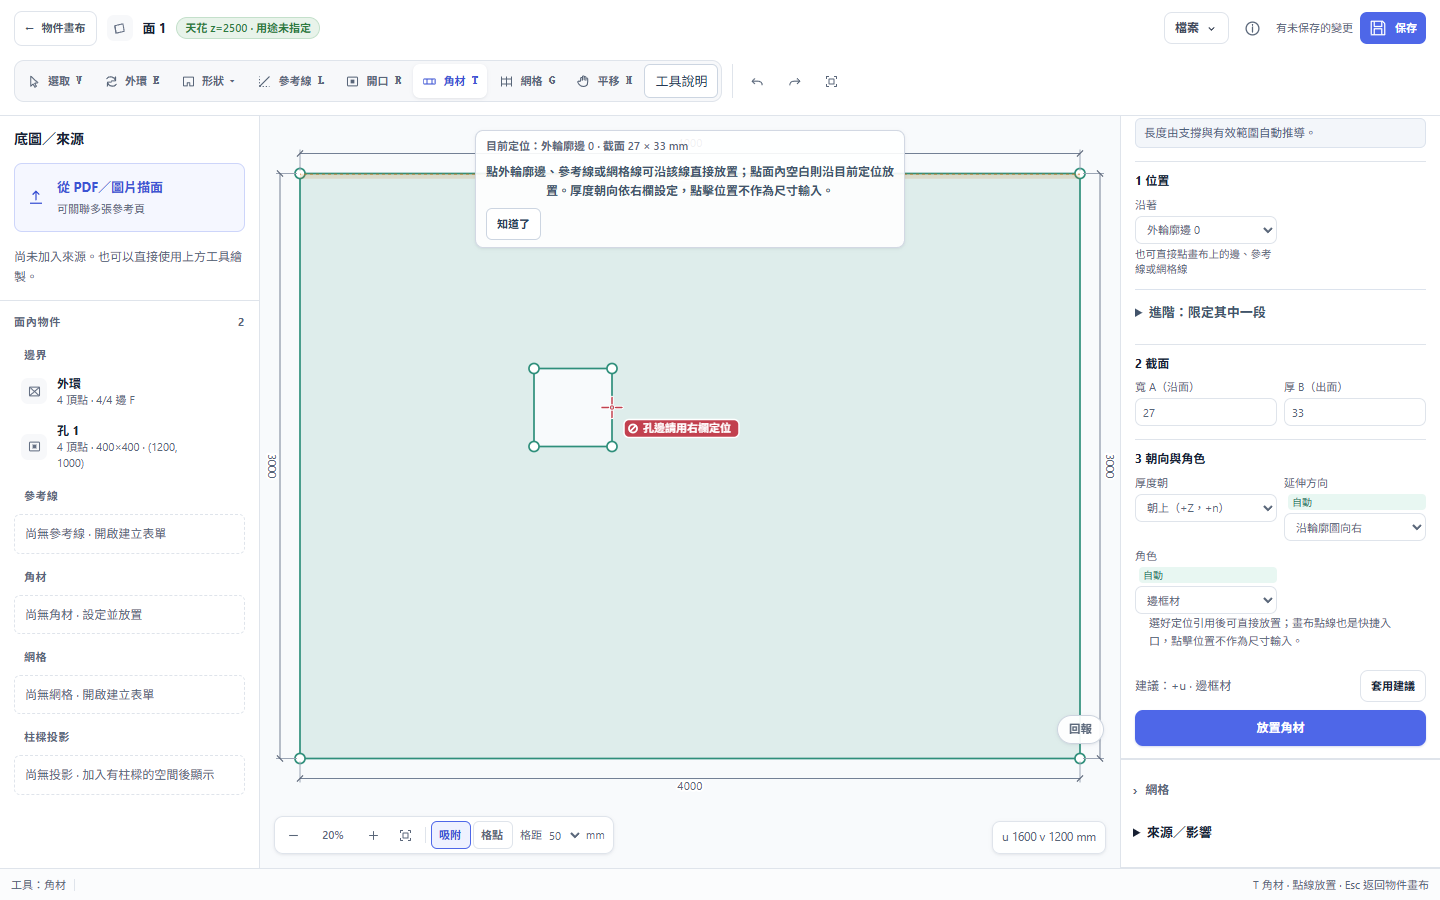
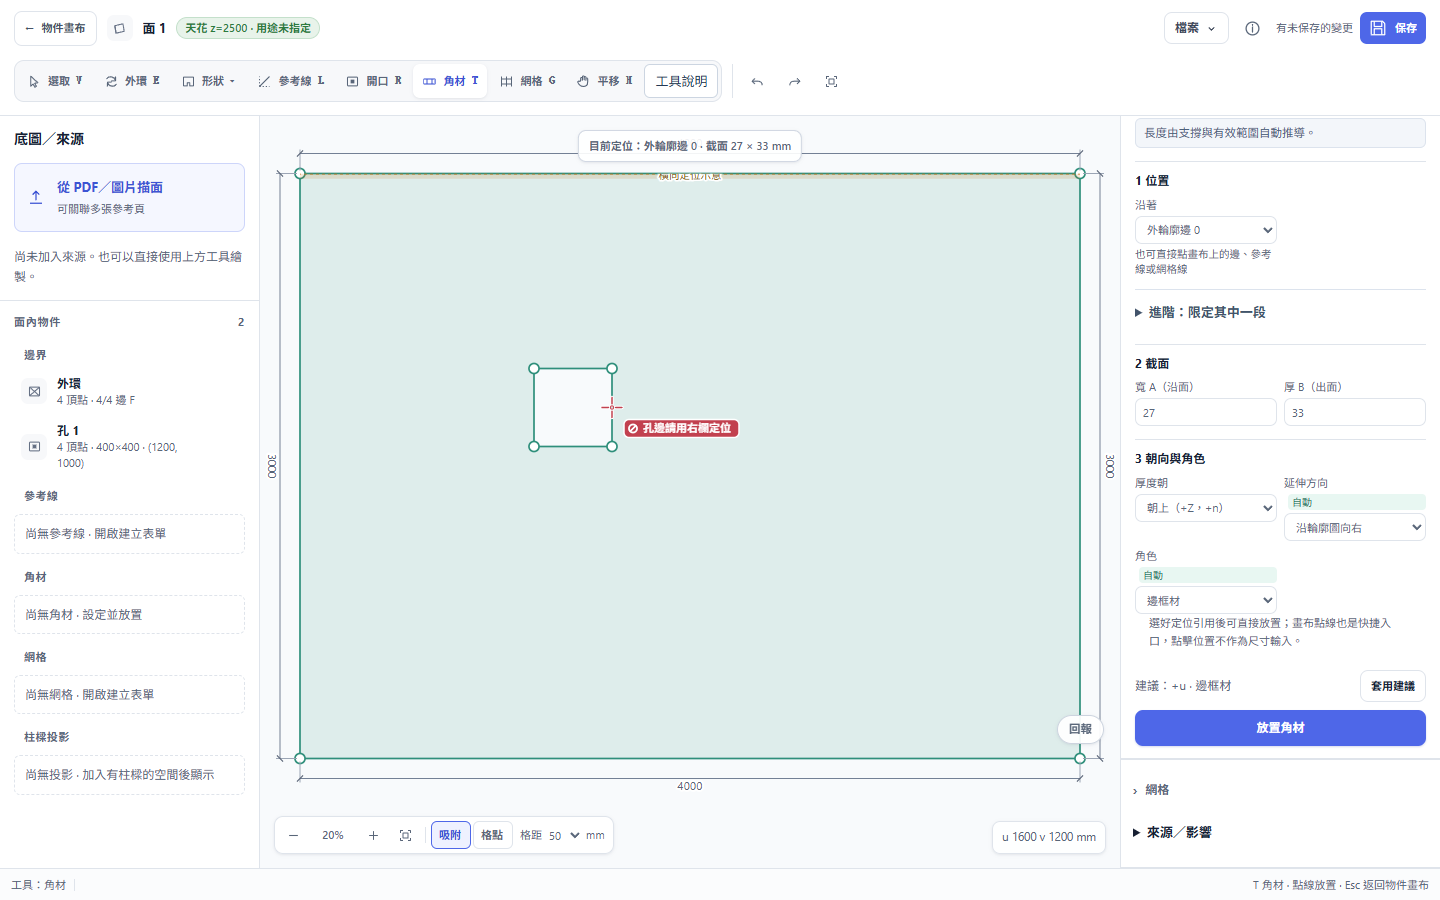
fix: preserve real cursor context and verify B glyph contract

Changed region(s): [[0.3125, 0.1556, 0.625, 0.28]]

diff --git a/geometry-web/cdp_test.js b/geometry-web/cdp_test.js
@@ -6572,13 +6572,13 @@ async function main() {
     await require('./project_import_final_objects_test.js')({read:eval_,send,until,check,doUndoRedo:op=>eval_('doUndoRedo('+JSON.stringify(op)+')')});
   }
 
-  { /* ===== P62. 自訂 SVG 游標 — 設計方向 1b「箭頭+文字膠囊」 =====
-       驗收:(a) 圖形層與設計稿常數一致(箭頭路徑、膠囊 h=19/rx=9.5/白描邊/色值、
-       文字 10.5px 650 白字含修飾鍵前綴);(b) 狀態解析跟真實行為一致——
+  { /* ===== P62. 自訂 SVG 游標 — #116 B 面內 v2 =====
+       驗收:(a) 圖形層與附件 v2 一致(箭頭路徑、狀態塊 h=18/rx=5/白描邊/色值、
+       文字 11px 650 白字、獨立修飾鍵);(b) 狀態解析跟真實行為一致——
        select 命中族(edge/vertex/alt-vertex/move-line/timber-pick/hole-pick)、
        工具族(guide/hole/timber 族)、拖曳尺寸膠囊、space-pan、busy;
        (c) overlay pointer-events:none 不干擾命中、進畫布隱原生游標、離開即隱藏。 */
-    console.log('=== P62. 自訂 SVG 游標(方向 1b) ===');
+    console.log('=== P62. 自訂 SVG 游標(#116 B 面內 v2) ===');
     const ck62 = (n, v, d) => {
       console.log(n,explicitVerdict(v === true ? '✓' : '✗'), v === true ? '' : JSON.stringify(d));
       // Attribute checks miss a global CSS rule overriding SVG presentation attributes.
@@ -6626,6 +6626,7 @@ async function main() {
           h:+cap.height.baseVal.value,rx:+cap.rx.baseVal.value,fill:cap.getAttribute('fill'),
           stroke:cap.getAttribute('stroke'),sw:cap.getAttribute('stroke-width')}:null,
         label:txt?txt.textContent:null, labelFill:txt?txt.getAttribute('fill'):null,
+        text:h.cur.textContent,modifierStyle:style([...h.cur.querySelectorAll('text')].find(e=>e.textContent==='Space')),
         labelStyle:style(txt),tipStyle:style(h.cur.querySelector('.cx-tip text')),
         labelFs:txt?txt.getAttribute('font-size'):null, labelFw:txt?txt.getAttribute('font-weight'):null,
         tip:(h.cur.querySelector('.cx-tip text')||{}).textContent||null,
@@ -6645,20 +6646,20 @@ async function main() {
 
     await mv62(2, 2);                                          /* 頂點 v0 把手圈(無角材世界,圈可直接點) */
     s62 = await cx62();
-    ck62('P62-2 指到凸角:「拉角」膠囊 face 綠 + 膠囊幾何 h19/rx9.5/白描邊1.3/字10.5-650',
+    ck62('P62-2 指到凸角:「拉角」face 綠 + v2 h18/rx5/白描邊1.5/字11-650',
       s62 && s62.label === '拉角' &&
-      s62.capsule && s62.capsule.fill === '#2f8f7b' && s62.capsule.h === 19 && s62.capsule.rx === 9.5 &&
-      s62.capsule.stroke === '#fff' && +s62.capsule.sw === 1.3 &&
-      s62.labelFs === '10.5' && s62.labelFw === '650' && s62.labelFill === '#fff', s62);
+      s62.capsule && s62.capsule.fill === '#2f8f7b' && s62.capsule.h === 18 && s62.capsule.rx === 5 &&
+      s62.capsule.stroke === '#fff' && +s62.capsule.sw === 1.5 &&
+      s62.labelFs === '11' && s62.labelFw === '650' && s62.labelFill === '#fff', s62);
 
     await mv62(2, 2, 1);                                       /* Alt=1 按住 */
     s62 = await cx62();
-    ck62('P62-3 Alt+凸角:「Alt · 捏缺口」danger 紅',
-      s62 && s62.label === 'Alt · 捏缺口' && s62.capsule && s62.capsule.fill === '#c2414f', s62);
+    ck62('P62-3 Alt+凸角:「捏缺口」face 綠與獨立 Alt 鍵',
+      s62 && s62.label === '捏缺口' && s62.text.includes('Alt') && s62.capsule && s62.capsule.fill === '#2f8f7b', s62);
 
     await mv62(3997, 1500);                                    /* 外輪廓邊 e1 */
     s62 = await cx62();
-    ck62('P62-4 指到外環邊:「選邊／推拉」', s62 && s62.label === '選邊／推拉', s62);
+    ck62('P62-4 指到外環邊:「推拉」', s62 && s62.label === '推拉', s62);
 
     await mv62(1000, 1500);                                    /* 孔左緣 e:1:x */
     s62 = await cx62();
@@ -6690,8 +6691,8 @@ async function main() {
       s62 && s62.label === '沿此線放置' && s62.capsule && s62.capsule.fill === '#2f8f7b', s62);
     await mv62(1000, 1500);                                    /* 孔的左緣 */
     s62 = await cx62();
-    ck62('P62-9 角材工具指到孔邊:「孔邊不可點」danger 紅',
-      s62 && s62.label === '孔邊不可點' && s62.capsule && s62.capsule.fill === '#c2414f', s62);
+    ck62('P62-9 角材工具指到孔邊:「孔邊請用右欄定位」danger 紅',
+      s62 && s62.label === '孔邊請用右欄定位' && s62.capsule && s62.capsule.fill === '#c2414f', s62);
     await mv62(3000, 2200);                                    /* 面內空白(避開 guide 2;面外亦同:走表單) */
     s62 = await cx62();
     ck62('P62-10 角材工具空白:「角材」accent 膠囊(依右欄設定放置)',
@@ -6706,12 +6707,14 @@ async function main() {
 
     await eval_(`feSetTool('pan')`); await sleep(80); await mv62(2000, 1500);
     s62 = await cx62();
-    ck62('P62-12 平移工具:「平移」hand 基底', s62 && s62.label === '平移', s62);
+    ck62('P62-12 平移工具:hand 基底', s62 && s62.arrowD === 'M7.5 11V6.8a1.4 1.4 0 0 1 2.8 0v3.4-5.6a1.4 1.4 0 0 1 2.8 0v5-4a1.4 1.4 0 0 1 2.8 0v4.6-2.4a1.4 1.4 0 0 1 2.8 0v5.1c0 4.3-2.5 7-6.6 7h-.8c-2.7 0-4.6-1.1-6.1-3L3 13.6a1.5 1.5 0 0 1 2.4-1.8Z', s62);
+    ck62('P62-12b 手形已表意，不疊多餘狀態塊',s62 && s62.capsule === null && s62.label === null,s62);
 
     await eval_(`fe.spaceDown=true; feSetTool('select'); cxRefreshAll();`);
     s62 = await cx62();
-    ck62('P62-13 按住空白:「Space · 平移」',
-      s62 && s62.label === 'Space · 平移', s62);
+    ck62('P62-13 按住空白:hand 基底與獨立 Space 鍵',
+      s62 && s62.arrowD === 'M7.5 11V6.8a1.4 1.4 0 0 1 2.8 0v3.4-5.6a1.4 1.4 0 0 1 2.8 0v5-4a1.4 1.4 0 0 1 2.8 0v4.6-2.4a1.4 1.4 0 0 1 2.8 0v5.1c0 4.3-2.5 7-6.6 7h-.8c-2.7 0-4.6-1.1-6.1-3L3 13.6a1.5 1.5 0 0 1 2.4-1.8Z' && s62.text === 'Space', s62);
+    ck62('P62-13b Space 鍵實際字樣無描邊且保留深字',s62?.modifierStyle?.stroke === 'none' && s62.modifierStyle.width === 0 && s62.modifierStyle.fill === 'rgb(89, 99, 118)',s62);
     await eval_(`fe.spaceDown=false;`);
 
     await eval_(`oc.busy=true; document.body.classList.add('oc-busy'); cxRefreshAll();`);
@@ -6732,8 +6735,8 @@ async function main() {
     await sleep(350);
     await mv62(2000, 14);                                      /* 角材 1@e0 帶中央 */
     s62 = await cx62();
-    ck62('P62-16 指到角材:「角材」ink 膠囊',
-      s62 && s62.label === '角材' && s62.capsule && s62.capsule.fill === '#172033', s62);
+    ck62('P62-16 指到角材:真實「角材 1」ink 狀態塊',
+      s62 && s62.label === '角材 1' && s62.capsule && s62.capsule.fill === '#172033', s62);
 
     /* 物件畫布層 */
     await eval_(`(async()=>{ resetSceneFocus(); await renderObjects(); })()`); await sleep(300);

diff --git a/tests/test_issue116_browser.js b/tests/test_issue116_browser.js
@@ -91,7 +91,10 @@ async function main(){
       },mode);
       await page.locator('#feOpApply').click();
       if(mode==='session')await page.evaluate(()=>{connection.session=window.__issue116Session;});
-      check(await dump(page),native,mode+' stale form refuses all native writes');
+      // #114 correctly makes the client read-only on a stale session. Read the
+      // native World independently; never clear that guard to make a test pass.
+      const afterStale=mode==='session'?await fetch(new URL('/api',url),{method:'POST',headers:{'Content-Type':'application/json'},body:JSON.stringify({cmd:'dump'})}).then(async r=>{const j=await r.json();assert.equal(j.ok,true);return j.text;}):await dump(page);
+      check(afterStale,native,mode+' stale form refuses all native writes');
       check(await page.evaluate(()=>fe.op),null,mode+' stale form retires preview');
       if(mode==='session')await page.reload();await page.waitForFunction(()=>connection.phase==='ready');
     }
@@ -118,7 +121,7 @@ async function main(){
     const holeNative=await dump(page);
     const reject=await page.evaluate(async()=>{await api('line timber 10 100 33 role boundary');return api('line place 10 on 1 at-face h0e0 +v +n');});
     check(reject.ok,false,'native core rejects boundary role on an inner hole edge');
-    check(reject.error.includes('V_BOUNDARY_ROLE'),true,'hole edge is rejected for the actual I21 role requirement');
+    check(reject.error.includes('V_BOUNDARY_ROLE'),true,'hole edge is rejected for the actual I20 role requirement');
     await fixture(page);const f=await at(page,4100,1000);await page.mouse.click(f.x,f.y,{button:'right'});
     check(await page.locator('#feCtxMenu').isVisible(),true,'outside-face menu provides real view controls');
     await page.locator('#feCtxMenu [data-fe-act="create"]').click();check(await page.locator('.fcm-submenu [data-fe-act="op:hole"]').getAttribute('aria-disabled'),'true','outside-face opening entry remains unavailable');
@@ -136,6 +139,10 @@ async function main(){
     await page.keyboard.up('Shift');check(await page.evaluate(()=>[...fe.timberSelection].sort()),[10,11],'existing Shift selection produces real timber multi-selection');
     await right(page,1000,50);check(await page.locator('.fcm-heading strong').textContent(),'已選 2 支角材','right-click preserves existing multi-selection');
     check(await page.locator('#feCtxMenu [data-fe-act="delete"]').getAttribute('aria-disabled'),'true','multi-delete follows existing single-selection requirement');await page.keyboard.press('Escape');
+    let timberPoint=await at(page,1000,50);await page.mouse.move(timberPoint.x,timberPoint.y);
+    check(await page.locator('.cx-layer[data-cx-host="fe"] .cx-label').textContent(),'角材 10','hover badge reads actual first timber ID');
+    await page.waitForTimeout(1300);timberPoint=await at(page,1000,2950);await page.mouse.move(timberPoint.x,timberPoint.y);
+    check(await page.locator('.cx-layer[data-cx-host="fe"] .cx-label').textContent(),'角材 11','changing hovered timber re-expands the badge with its actual ID');
     await fixture(page);
     await right(page,2000,1500);check(await page.locator('.fcm-heading strong').textContent(),'面內一點','inside-point target preserves right-click location');
     const point=await page.evaluate(()=>({...fe.sel}));
@@ -145,12 +152,17 @@ async function main(){
     check(await page.locator('.fcm-heading strong').textContent(),'參考線 1','guide context uses actual guide id');
     await page.locator('#feCtxMenu .fcm-tile[data-fe-act="guide-edit"]').click();check(await page.evaluate(()=>fe.fiTab),'guide','guide editing routes to existing reference-source form');
     check(await page.locator('#refGuideExpr').inputValue(),'spec:guideAt','guide source expression preserved');
+    await page.locator('#guide-editor-close').click();
+    await page.locator('[data-face-tool="timber"]').click();const guidePoint=await at(page,2000,1700);await page.mouse.move(guidePoint.x,guidePoint.y);
+    check(await page.locator('.cx-layer[data-cx-host="fe"] .cx-label').textContent(),'沿此線放置','reference-line hover describes the real placement source');
     // Actual pointer cursor: expands on state change, shrinks after 1.2s, denial stays.
     await fixture(page);let p=await at(page,4000,1400);await page.mouse.move(p.x,p.y);
     check(await page.locator('.cx-layer[data-cx-host="fe"] .cx-label').textContent(),'推拉','real edge hover shows intent badge');
     await page.waitForTimeout(1300);check(await page.locator('.cx-layer[data-cx-host="fe"] .cx-label').count(),0,'stationary cursor collapses after 1.2 seconds');
     await page.keyboard.down('Space');check(await page.locator('.cx-layer[data-cx-host="fe"]').textContent(),'Space','temporary pan modifier is visible');await page.keyboard.up('Space');
-    await fixture(page,['line boundary 1 outline 0,0 4000,0 4000,3000 0,3000 hole 1200,1000 1200,1400 1600,1400 1600,1000']);await page.locator('[data-face-tool="timber"]').click();p=await at(page,1600,1200);await page.mouse.move(p.x,p.y);await page.waitForTimeout(1300);
+    await fixture(page,['line boundary 1 outline 0,0 4000,0 4000,3000 0,3000 hole 1200,1000 1200,1400 1600,1400 1600,1000']);p=await at(page,1600,1200);await page.mouse.move(p.x,p.y);
+    check(await page.locator('.cx-layer[data-cx-host="fe"] .cx-label').textContent(),'孔','selection hover retains the actual hole context');
+    await page.locator('[data-face-tool="timber"]').click();await page.mouse.move(p.x,p.y);await page.waitForTimeout(1300);
     check(await page.locator('.cx-layer[data-cx-host="fe"] .cx-label').textContent(),'孔邊請用右欄定位','denial reason remains after normal collapse delay');await shot(page,'cursor-denied');
     // Small-screen and compact landscape layout use the same commands/panel.
     for(const viewport of [{width:390,height:844},{width:720,height:480}]){

diff --git a/geometry-web/app.js b/geometry-web/app.js
@@ -3952,13 +3952,15 @@ function cxRender(h, x, y, alt, shift) {
   if (h === cxUI.fe && window.CursorV2) {
     const keys = {edge:"edge-push", "resize-ew":"edge-push", "resize-ns":"edge-push",
       "alt-vertex":"alt-pinch", "move-line":"move-guide", "timber-pick":"hover-pick", "hole-pick":"select"};
-    const signature = res.key + ':' + alt + ':' + shift;
+    const signature = res.key + ':' + alt + ':' + shift + ':' + (res.label || '');
     if (h.v2State !== signature) {
       clearTimeout(h.v2Timer); h.v2State = signature; h.v2Since = performance.now();
       h.v2Timer = setTimeout(() => { if (h.last) cxRender(h,h.last.x,h.last.y,cxAlt,cxShift); }, 1200);
     }
     const opts = {expanded:performance.now()-h.v2Since<1200, readout:res.tip,
       mod:fe.spaceDown ? "Space" : alt ? "Alt" : shift ? "Shift" : null};
+    if (res.label) opts.label = res.label;
+    if (res.key === "hole-pick") opts.icon = "hole";
     if (res.key === "edge" || res.key === "resize-ns") opts.angle = 90;
     else if (res.key === "resize-ew") opts.angle = 0;
     if (res.key === "move-line") {
@@ -3970,10 +3972,6 @@ function cxRender(h, x, y, alt, shift) {
       const hit = document.elementFromPoint(x,y)?.closest?.('[data-face-hit]')?.dataset.faceHit.split(':');
       const a = hit && feCurLoops()[+hit[1]]?.verts[+hit[2]], b = hit && feCurLoops()[+hit[1]]?.verts[(+hit[2]+1)%feCurLoops()[+hit[1]].verts.length];
       if (a && b) opts.angle = a[1] === b[1] ? 90 : 0;
-    }
-    if (res.key === "timber-pick") {
-      const hit = document.elementFromPoint(x,y)?.closest?.('[data-face-hit]')?.dataset.faceHit.split(':');
-      opts.label = `角材 ${hit?.[1] || ''}`;
     }
     glyph = CursorV2.glyph(keys[res.key] || res.key,opts);
   }
@@ -4116,9 +4114,9 @@ function cxResolveFace(x, y, alt, shift) {
         }
         return { key: "vertex", marks };
       }
-      if (hit[0] === "e") return { key: +hit[1] === 0 ? "edge" : "hole-pick", marks };
+      if (hit[0] === "e") return { key: +hit[1] === 0 ? "edge" : "hole-pick", label: +hit[1] === 0 ? null : "孔", marks };
       if (hit[0] === "g") return { key: "move-line", marks };
-      if (hit[0] === "t") return { key: "timber-pick", marks };
+      if (hit[0] === "t") return { key: "timber-pick", label: `角材 ${hit[1]}`, marks };
     }
     return { key: "select", marks };
   }
@@ -4126,7 +4124,7 @@ function cxResolveFace(x, y, alt, shift) {
   if (fe.tool === "hole") return { key: "hole", marks };
   if (fe.tool === "timber") {
     if (hit && hit[0] === "e" && +hit[1] !== 0) return { key: "deny", marks };
-    if (hit && (hit[0] === "e" || hit[0] === "g")) return { key: "timber-ok", marks };
+    if (hit && (hit[0] === "e" || hit[0] === "g")) return { key: "timber-ok", label: hit[0] === "g" ? "沿此線放置" : "沿此邊放置", marks };
     /* 頂點/角材/面內外空白一律走右欄表單放置(實際行為,不報 deny-out) */
     return { key: "timber", marks };
   }

diff --git a/geometry-web/docs/ISSUE116-B-HANDOFF.md b/geometry-web/docs/ISSUE116-B-HANDOFF.md
@@ -30,16 +30,16 @@
 
 ## 已驗與外部 gate
 
-- `tests/test_issue116_browser.js`：75/75，Chrome 真右鍵、真欄位、真 preview drag、取消 dump 逐字不变、確認精確 8 頂點、單步 undo/redo、正式 Save 的下載分支、完整 `.gcanvas` 重開 dump 一致。過期 selection/frame/session/edit 與未知命令拒寫；子選單、方向鍵／Home／End／Enter／Esc、disabled reason、多選、cursor 時序、390/720px 及 compact cancel 均通過；未預期 console/page errors 為 0。
-- ProjectStore、ReferenceWorkspace races、model update UI、context operations：70/70，包含真 HTTP/native committed ABA；無略過。
-- 完整 `cdp_test.js` 最終結果待本輪執行完成後更新。前兩次因畫面遮擋修正主動中止，不能計為通過。
+- `tests/test_issue116_browser.js`：79/79，Chrome 真右鍵、真欄位、真 preview drag、取消 dump 逐字不變、確認精確 8 頂點、單步 undo/redo、正式 Save 的下載分支、完整 `.gcanvas` 重開 dump 一致。過期 selection/frame/session/edit 與未知命令拒寫；子選單、方向鍵／Home／End／Enter／Esc、disabled reason、多選、cursor 時序、390/720px 及 compact cancel 均通過；未預期 console/page errors 為 0。參考線／孔 hover 及切換角材 ID 後重新展開均由真指標驗證。
+- 接上 #114 後 ProjectStore、ReferenceWorkspace races、model update UI、context operations：73/73，包含真 HTTP/native committed ABA；無略過。另以既有 WSL Node/GCC 跑 #77 history/workspace/room-collection：56/56；Windows 缺 GCC 的初次失敗未計為通過。
+- 完整 `cdp_test.js` 最終結果待本輪執行完成後更新。上一輪1336通過／10失敗、未完成：9項P62舊規格已改驗附件v2，保留38項原固定門檻；參考線標籤與孔辨識一併修正。P72配置卡拖移失敗；main單項52/52通過，正比對雙方全量，不先宣稱無關。更早因畫面修正／rebase中止的回歸亦不計為通過。
 - 所有測試用獨立 8816 及 TEMP feedback，使用者 8765 未重置、未清瀏覽器儲存。預覽用另一個 8817，`/runtime` 要求本 worktree、`fresh:true`。
 
 最終記錄在 `%TEMP%/geometry-tests/issue116-browser.log`、`issue116-unit.log`、`issue116-cdp-full.log`。專項 result 為 `issue116-evidence/result.json`。保存分支是真下載 ZIP，不模擬 writable handle；OS picker、本機 IME／實體 iOS、跨瀏覽器及 PR #114 多房間 owner 驗收未完成，不冒充通過。
 
 ## PR #114 重疊與整合順序
 
-查核 PR #114 head `fe5c41eb6342cef45bc8693919ee33e01ca80d5f`，branch `feat/source-rooms-owner-77-20261004`。本分支基於 main `06086ab`；兩者共同祖先 `07d5dde`。重疊檔為 `app.js`、`index.html`、`BACKLOG.md`、`tests/run_all.py`。
+開工時查核 PR #114 head `fe5c41eb6342cef45bc8693919ee33e01ca80d5f`，branch `feat/source-rooms-owner-77-20261004`。初版基於 main `06086ab`，共同祖先 `07d5dde`。工作期間 #114 合入 main `861b65e`，本分支已 rebase 到 `861b65e` 並保留全部 #114 變更。重疊檔為 `app.js`、`index.html`、`BACKLOG.md`、`tests/run_all.py`。
 
 | 檔案 | #116 範圍 | #114 保留要點 |
 |---|---|---|
@@ -65,4 +65,6 @@
 
 source-plane 的原插入區不衝突，也必須保留；不以只選 ours/theirs 解掉此衝突。演練紀錄 `%TEMP%/geometry-tests/issue116-pr114-merge-tree.txt`。
 
-建議 dot 先決定 #114 的 owner 整合基準，再合此小接線；解 index script 插入衝突時保留雙方新增 script。整合後重跑這份專項、完整 CDP 與 #114 正式多房間正常／中斷／保存重開／歷史／model update acceptance。草稿不自動關閉 #116；獨立只讀規則審查交 dot，尚未宣稱完成。
+上述唯一 index 衝突已在本分支 rebase 時依雙方 script 順序解決；不是讓 dot 再解已知衝突。新 main 下79項專項、73項共用 owner 單元與56項多房間原生測試已重跑。過期 session 測試保留 #114 的唯讀保護，另讀 native dump 證明零寫入，不清除保護讓測試過。
+
+交 dot 核對最新 main 下的小接線、獨立只讀規則審查，並跑 #114 正式多房間正常／中斷／保存重開／歷史／model update browser acceptance。草稿不自動關閉 #116；iOS／IME／OS picker 與其他工作區未宣稱完成。

diff --git a/geometry-web/docs/DOM-CONTRACT.md b/geometry-web/docs/DOM-CONTRACT.md
@@ -299,7 +299,7 @@ P73 `uiux_review_test.js` 透過 `cdp_test.js` 驗證本節，也可用 `GEOMETR
 | `#rcErr` | RC 對話框表單內錯誤提示(BF4:驗證失敗顯示) | `hidden`、textContent |
 | `#feActionBar` / `[data-fe-act]` | 面內選邊/角/點/角材後的浮動操作列(GEO-188;`op:notch`/`op:extend`/`op:push`/`op:corner`/`op:hole`/`fixity`;GEO-191 角材選取只有 `delete`) | `hidden`、`.click()`、`.on` |
 | `#feOpPanel` / `[data-fe-param]` / `[data-fe-keep]` / `[data-fe-anchor]` / `[data-fe-dir]` / `[data-fe-ax]` / `[data-fe-ay]` / `#feOpApply` / `#feOpCancel` | 就地參數面板(GEO-188/170;`input` 事件即時預覽,`[data-fe-keep]` 是「留下」欄與切掉連動,Enter/`#feOpApply` 套用) | `hidden`、`value`、`.click()` |
-| `#feCtxMenu` | 面內右鍵選單(GEO-192;內容 = `feActionsFor(fe.sel)`,與 `#feActionBar` 同一份資料來源) | `hidden`、`[data-fe-act]` 清單與 `#feActionBar` 逐一相同、`.click()` |
+| `#feCtxMenu` | #116 B 面內右鍵選單；幾何動作重用 `feActionsFor`，另有真實建立／檢視入口、搜尋與停用原因 | `hidden`、`[data-fe-act]` 包含浮動列真動作、`aria-disabled`、`.fcm-search input`、`.click()` |
 
 ### 已移除(Phase 6)
 
@@ -653,13 +653,19 @@ P73 `uiux_review_test.js` 透過 `cdp_test.js` 驗證本節，也可用 `GEOMETR
   `anchor:"start"`/`dist` 讓另一側不動)、垂直於母邊且不與母邊重合的邊界動 `d`(或 push
   的 `dist`);point/corner 目標比照對應欄位。`feSyncOverlays()` 的 `show` 判斷放行
   `fe.drag.kind==="opHandle"`,拖曳中面板才不會被既有的「有 `fe.drag` 就隱藏」邏輯關掉。
-- **C. 右鍵選單**:`#feCtxMenu`(`role="menu"`,動態填 `[data-fe-act]` 按鈕)。內容來自
-  `feActionsFor(fe.sel)`——`#feActionBar` 與 `#feCtxMenu` 共用這個函式,清單保證逐一相同;
-  點擊都走共用的 `feRunAction(act)`。`fevp` 的 `contextmenu` 事件先呼叫
-  `feClickSelectBlank`/`feClickSelectHit`(與左鍵單擊、`feUp` 的未移動分支、雙擊共用同一段
-  選取邏輯,不複製)再 `feCtxMenuShow(clientX,clientY)`;面外空白右鍵不顯示選單。關閉走
-  `feCtxMenuHide()`:點選單外(`document` capture 階段的 `pointerdown`)、Esc(階梯在
-  「量比例尺」之前新增一階)、滾輪/縮放、`feSyncOverlays()` 發現不該顯示浮動列時。
+- **C. #116 B 右鍵選單**：`#feCtxMenu`（`role="menu"`）的 tile／row 都是
+  `[data-fe-act]`、`role="menuitem"`，停用用 `aria-disabled="true"`，hover／focus
+  原因統一顯示 `.fcm-footer`。幾何動作來自 `feActionsFor(fe.sel)` 並重用
+  `feRunAction`／`feStartOp`；另一組 `create/view` 子選單及 `guide-u/guide-v/guide-edit/
+  guide-timber/fit/z100/grid/snap/props` 路由到既有控制項，不新增核心命令。
+  `.fcm-search input` 搜尋真指令；方向鍵、Home/End、Enter、左右子選單、Esc 使用
+  `FaceContextMenu`。第一個 Esc 取消表單、第二個關選單；IME composition 不搶鍵。
+  右鍵仍重用 `feClickSelectBlank`／`feClickSelectHit`；右鍵已選角材群保留多選。
+  面外空白提供檢視，孔邊快捷角材停用不代表 I13 禁止明選定位。
+  選單在頁面浮層；唯一 `#feOpPanel.fcm-panel` 開啟時暫移同層，關閉歸位。
+  B 期間 `.fcm-suppressed` 收起 `#feActionBar`；`.fcm-anchor` 保存右鍵真落點。
+  點選單／表單／`[data-fe-handle]` 外部、焦點離開、工具／選取／場景／連線情境改變
+  會取消舊預覽；所有提交仍過既有交易及影響確認守門。
 - **D. 雙擊**:**不掛原生 `dblclick` 事件**——單擊選取本身會呼叫 `drawFaceEditor()` 整份
   重繪 SVG、`feSyncOverlays()` 重建 `#feActionBar` 的按鈕,第一下處理完那個節點就已經被
   拔掉,原生 `dblclick` 的 target 常常冒泡不到任何監聽器(`ev.detail` 在這個測試 harness
